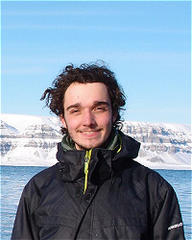
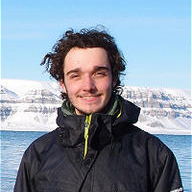
fixed size issue on holger

diff --git a/_pages/holger.md b/_pages/holger.md
@@ -5,7 +5,7 @@ author: Holger Buchholz
 author_profile: true
 permalink: /about/holger/
 ---
-{% include figure image_path="/assets/images/blank-profile-picture-600x600.png" %}
+{% include figure image_path="/assets/images/holger.jpg" %}
 
 I graduated from the Scottish Association for Marine Science (SAMS) with a Bachelor (honours, first class) in Marine Science with Arctic Studies. As with many microbiologists, I started with the intend of learning about sharks and corals, soon got interest in little sediment critters, and did my undergraduate thesis in bacterial secondary metabolites. Now I am involved with viruses of the smallest bacteria in the ocean, if there is something smaller, I’ll find it. Currently, I’m in the second year of my PhD at the University of Exeter.
 
